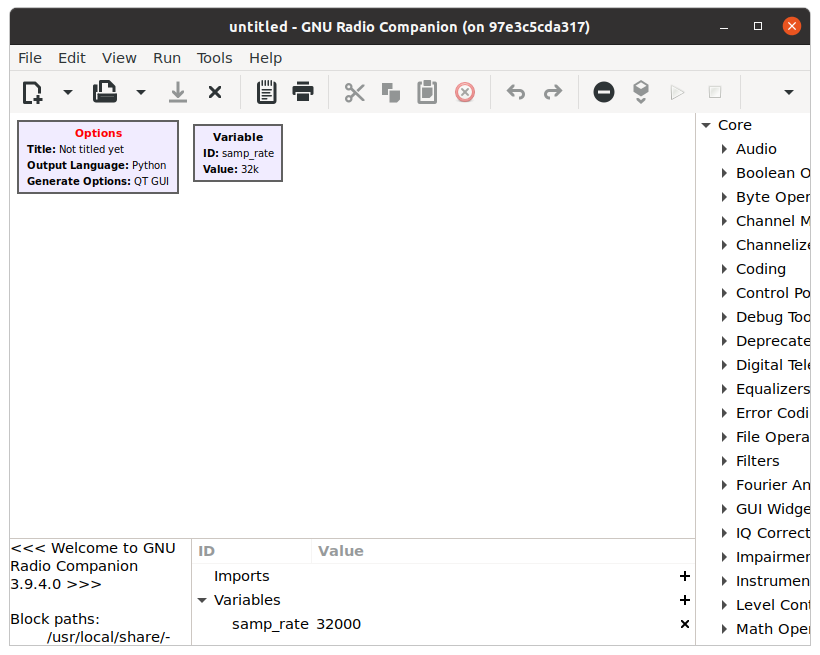
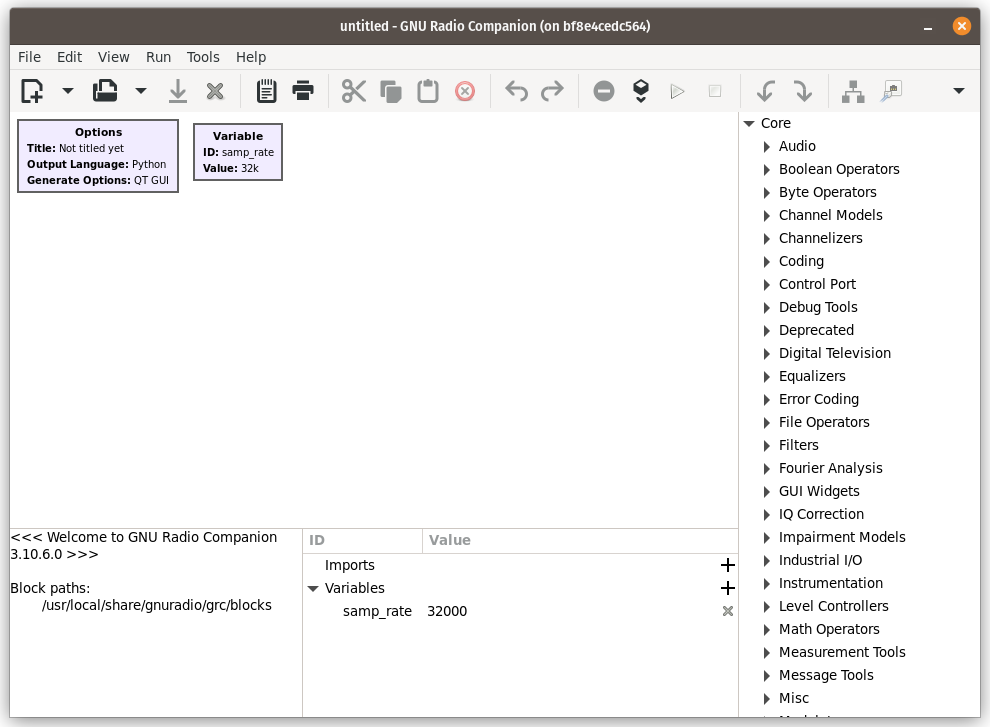
update screenshot

Changed region(s): [[0.0, 0.0, 1.0, 1.0], [0.3049, 0.7328, 0.4878, 0.855], [0.4268, 0.7328, 0.4878, 0.7634]]

diff --git a/README.md b/README.md
@@ -29,7 +29,7 @@ xhost +local:docker
 The [gnuradio310/](gnuradio310/) directory contains a `run.sh` script that shows how to start a container. By default, it maps the host's `~/Downloads` directory as a container volume. Once inside the container, open GNU Radio Companion:
 
 ```bash
-dev@2b310945025e:~$ gnuradio-companion
+dev@bf8e4cedc564:~$ gnuradio-companion
 ```
 
 And the GUI should come up:
